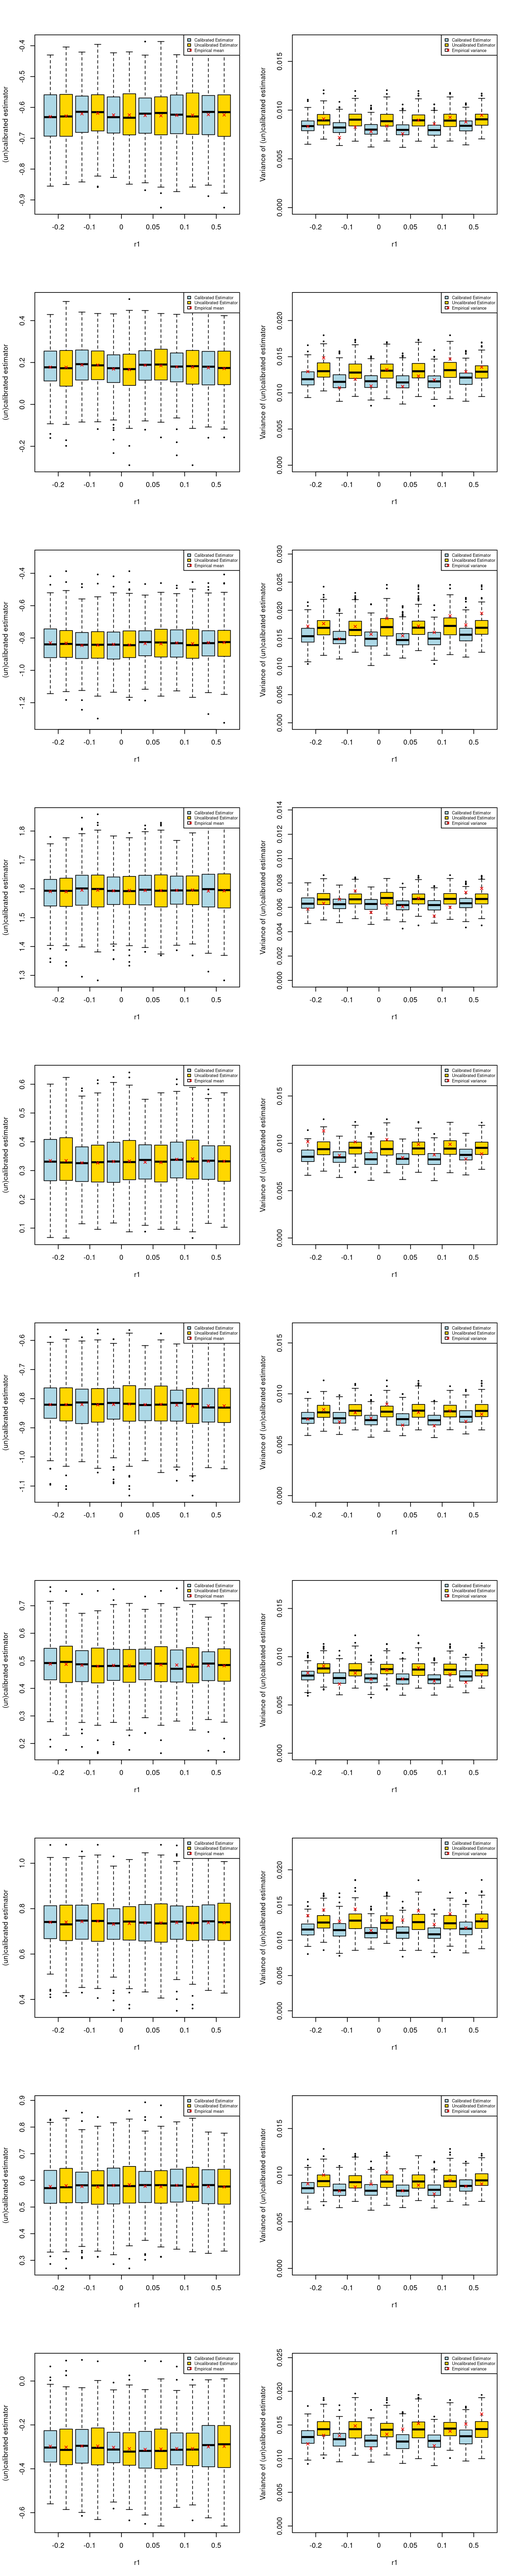
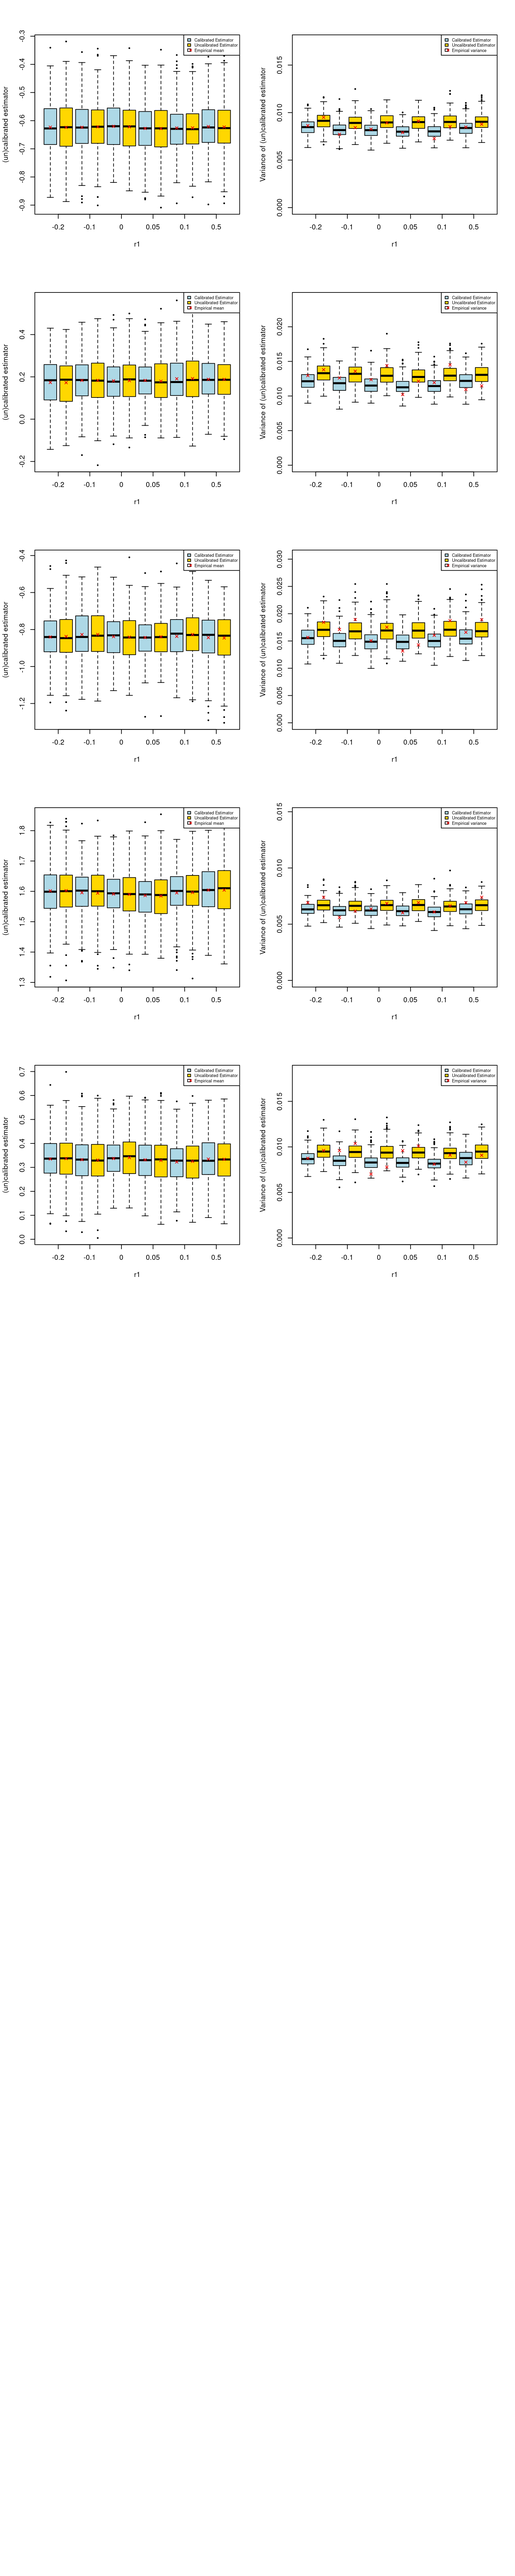
Build site.

diff --git a/docs/calibration_sib_randomX.html b/docs/calibration_sib_randomX.html
@@ -14,8 +14,8 @@
 
 <title>Calibration result on sibling data: random genotype</title>
 
-<script src="site_libs/header-attrs-2.9/header-attrs.js"></script>
-<script src="site_libs/jquery-1.11.3/jquery.min.js"></script>
+<script src="site_libs/header-attrs-2.14/header-attrs.js"></script>
+<script src="site_libs/jquery-3.6.0/jquery-3.6.0.min.js"></script>
 <meta name="viewport" content="width=device-width, initial-scale=1" />
 <link href="site_libs/bootstrap-3.3.5/css/cosmo.min.css" rel="stylesheet" />
 <script src="site_libs/bootstrap-3.3.5/js/bootstrap.min.js"></script>
@@ -39,7 +39,7 @@
 <link href="site_libs/font-awesome-5.1.0/css/all.css" rel="stylesheet" />
 <link href="site_libs/font-awesome-5.1.0/css/v4-shims.css" rel="stylesheet" />
 
-<link rel="icon" href="https://github.com/workflowr/workflowr-assets/raw/master/img/reproducible.png">
+<link rel="icon" href="https://github.com/workflowr/workflowr-assets/raw/main/img/reproducible.png">
 <!-- Add a small amount of space between sections. -->
 <style type="text/css">
 div.section {
@@ -76,6 +76,7 @@ if (window.hljs) {
 
 
 
+
 <style type = "text/css">
 .main-container {
   max-width: 940px;
@@ -96,6 +97,9 @@ button.code-folding-btn:focus {
 }
 summary {
   display: list-item;
+}
+details > summary > p:only-child {
+  display: inline;
 }
 pre code {
   padding: 0;
@@ -321,7 +325,7 @@ div.tocify {
 <div class="navbar navbar-default  navbar-fixed-top" role="navigation">
   <div class="container">
     <div class="navbar-header">
-      <button type="button" class="navbar-toggle collapsed" data-toggle="collapse" data-target="#navbar">
+      <button type="button" class="navbar-toggle collapsed" data-toggle="collapse" data-bs-toggle="collapse" data-target="#navbar" data-bs-target="#navbar">
         <span class="icon-bar"></span>
         <span class="icon-bar"></span>
         <span class="icon-bar"></span>
@@ -403,10 +407,10 @@ title="This is the local directory in which the code in this file was executed."
 </span>
 </p>
 <p>
-This reproducible <a href="http://rmarkdown.rstudio.com">R Markdown</a>
+This reproducible <a href="https://rmarkdown.rstudio.com">R Markdown</a>
 analysis was created with <a
-  href="https://github.com/jdblischak/workflowr">workflowr</a> (version
-1.6.2). The <em>Checks</em> tab describes the reproducibility checks
+  href="https://github.com/workflowr/workflowr">workflowr</a> (version
+1.7.0). The <em>Checks</em> tab describes the reproducibility checks
 that were applied when the results were created. The <em>Past
 versions</em> tab lists the development history.
 </p>
@@ -519,15 +523,15 @@ project makes it easier to run your code on other machines.</p>
 <div class="panel panel-default">
 <div class="panel-heading">
 <p class="panel-title">
-<a data-toggle="collapse" data-parent="#workflowr-checks" href="#strongRepositoryversionstrongahrefhttpsgithubcomyunqiyang0215simulationcalibratedmrtree380c82425c9a465de83752c72fd63a794957b584targetblank380c824a">
+<a data-toggle="collapse" data-parent="#workflowr-checks" href="#strongRepositoryversionstrongahrefhttpsgithubcomyunqiyang0215simulationcalibratedmrtree42d0387451823498a6d09ae0e4a4cfe3763259fftargetblank42d0387a">
 <span class="glyphicon glyphicon-ok text-success"
 aria-hidden="true"></span> <strong>Repository version:</strong>
-<a href="https://github.com/yunqiyang0215/simulation-calibrated-mr/tree/380c82425c9a465de83752c72fd63a794957b584" target="_blank">380c824</a>
+<a href="https://github.com/yunqiyang0215/simulation-calibrated-mr/tree/42d0387451823498a6d09ae0e4a4cfe3763259ff" target="_blank">42d0387</a>
 </a>
 </p>
 </div>
 <div
[2 lines of base64/hex data omitted]
 class="panel-collapse collapse">
 <div class="panel-body">
 <p>
@@ -537,7 +541,7 @@ reproducibility.
 </p>
 <p>
 The results in this page were generated with repository version
-<a href="https://github.com/yunqiyang0215/simulation-calibrated-mr/tree/380c82425c9a465de83752c72fd63a794957b584" target="_blank">380c824</a>.
+<a href="https://github.com/yunqiyang0215/simulation-calibrated-mr/tree/42d0387451823498a6d09ae0e4a4cfe3763259ff" target="_blank">42d0387</a>.
 See the <em>Past versions</em> tab to see a history of the changes made
 to the R Markdown and HTML files.
 </p>
@@ -552,6 +556,7 @@ were generated:
 </p>
 <pre><code>
 Ignored files:
+    Ignored:    .Rhistory
     Ignored:    .Rproj.user/
 
 </code></pre>
@@ -599,6 +604,40 @@ Message
 </tr>
 </thead>
 <tbody>
+<tr>
+<td>
+Rmd
+</td>
+<td>
+<a href="https://github.com/yunqiyang0215/simulation-calibrated-mr/blob/42d0387451823498a6d09ae0e4a4cfe3763259ff/analysis/calibration_sib_randomX.Rmd" target="_blank">42d0387</a>
+</td>
+<td>
+yunqi yang
+</td>
+<td>
+2024-02-25
+</td>
+<td>
+wflow_publish("analysis/calibration_sib_randomX.Rmd")
+</td>
+</tr>
+<tr>
+<td>
+html
+</td>
+<td>
+<a href="https://rawcdn.githack.com/yunqiyang0215/simulation-calibrated-mr/5d291dc002fdfac94d898ae0d724715dc7f2d4d1/docs/calibration_sib_randomX.html" target="_blank">5d291dc</a>
+</td>
+<td>
+yunqi yang
+</td>
+<td>
+2024-02-25
+</td>
+<td>
+Build site.
+</td>
+</tr>
 <tr>
 <td>
 Rmd
@@ -708,12 +747,13 @@ random in this case.</p>
 class="section level3">
 <h3>1. Compare calibrated estimator vs. raw estimator (Exposure
 trait)</h3>
+<div id="parameters-p-10-and-sig-1" class="section level4">
+<h4>Parameters: p = 10 and sig = 1</h4>
 <pre class="r"><code>par(mfrow = c(10,2))
 r1 = unique(res$sim_data.r1)
-p = 10
 
-for (i in 1:p){
-  snp_dat_list = lapply(1:length(r1), function(k) combine_single_snp_stat(which(res$sim_data.r1 == r1[k]), i, data.list = res$fit.sumstat, column_names = c(&quot;Y1.cali&quot;, &quot;Y1.raw&quot;)))
+for (i in 1:5){
+  snp_dat_list = lapply(1:length(r1), function(k) combine_single_snp_stat(which(res$sim_data.r1 == r1[k] &amp; res$sim_effect.p == 10 &amp; res$sim_data.sig == 1), i, data.list = res$fit.sumstat, column_names = c(&quot;Y1.cali&quot;, &quot;Y1.raw&quot;)))
 
   dat_estimator &lt;- do.call(cbind, snp_dat_list)
   colors &lt;- rep(c(&quot;lightblue&quot;, &quot;gold1&quot;), length.out = ncol(dat_estimator))
@@ -737,7 +777,7 @@ for (i in 1:p){
   
   ### Plot variance
   empirical_var = apply(dat_estimator, 2, var)
-  snp_dat_list = lapply(1:length(r1), function(k) combine_single_snp_stat(which(res$sim_data.r1 == r1[k]), i, data.list = res$fit.sumstat, column_names = c(&quot;Y1.cali.var&quot;, &quot;Y1.raw.var&quot;)))
+  snp_dat_list = lapply(1:length(r1), function(k) combine_single_snp_stat(which(res$sim_data.r1 == r1[k] &amp; res$sim_effect.p == 10 &amp; res$sim_data.sig == 1), i, data.list = res$fit.sumstat, column_names = c(&quot;Y1.cali.var&quot;, &quot;Y1.raw.var&quot;)))
   dat_estimator_var &lt;- do.call(cbind, snp_dat_list)
     
   colors &lt;- rep(c(&quot;lightblue&quot;, &quot;gold1&quot;), length.out = ncol(dat_estimator_var))
@@ -785,6 +825,17 @@ Date
 <tbody>
 <tr>
 <td>
+<a href="https://github.com/yunqiyang0215/simulation-calibrated-mr/blob/5d291dc002fdfac94d898ae0d724715dc7f2d4d1/docs/figure/calibration_sib_randomX.Rmd/unnamed-chunk-3-1.png" target="_blank">5d291dc</a>
+</td>
+<td>
+yunqi yang
+</td>
+<td>
+2024-02-25
+</td>
+</tr>
+<tr>
+<td>
 <a href="https://github.com/yunqiyang0215/simulation-calibrated-mr/blob/f35a1c6560821e8ce7cf471e58b3981c18031dd4/docs/figure/calibration_sib_randomX.Rmd/unnamed-chunk-3-1.png" target="_blank">f35a1c6</a>
 </td>
 <td>
@@ -798,6 +849,60 @@ yunqi yang
 </table>
 </div>
 </div>
+</div>
+<div id="parameters-p-10-and-sig-10" class="section level4">
+<h4>Parameters: p = 10 and sig = 10</h4>
+<pre class="r"><code>par(mfrow = c(10,2))
+r1 = unique(res$sim_data.r1)
+for (i in 1:5){
+  snp_dat_list = lapply(1:length(r1), function(k) combine_single_snp_stat(which(res$sim_data.r1 == r1[k] &amp; res$sim_effect.p == 10 &amp; res$sim_data.sig == 10), i, data.list = res$fit.sumstat, column_names = c(&quot;Y1.cali&quot;, &quot;Y1.raw&quot;)))
+
+  dat_estimator &lt;- do.call(cbind, snp_dat_list)
+  colors &lt;- rep(c(&quot;lightblue&quot;, &quot;gold1&quot;), length.out = ncol(dat_estimator))
+  boxplot(dat_estimator,
+          #main = paste0(&quot;Exposure trait, r1=&quot;, r1[k]),
+          xlab = &quot;r1&quot;,
+          ylab = &quot;(un)calibrated estimator&quot;,
+          col = colors,
+          outpch = 20, # This changes the outlier point type to solid circle
+          outcex = 0.5,
+          xaxt = &quot;n&quot;)
+  points(1:ncol(dat_estimator), colMeans(dat_estimator), pch = 4, cex = 0.8, col = &quot;red2&quot;)
+  legend(&quot;topright&quot;,
+       legend = c(&quot;Calibrated Estimator&quot;, &quot;Uncalibrated Estimator&quot;, &quot;Empirical mean&quot;),
+       fill = c(&quot;lightblue&quot;, &quot;gold1&quot;, NA),  
+       pch = c(NA, NA, 4),  
+       col = c(NA, NA, &quot;red2&quot;),  
+       cex = 0.6)  
+  axis(1, at=seq(1.5, by=2, length.out=length(r1)), labels=r1)
+
+  
+  ### Plot variance
+  empirical_var = apply(dat_estimator, 2, var)
+  snp_dat_list = lapply(1:length(r1), function(k) combine_single_snp_stat(which(res$sim_data.r1 == r1[k] &amp; res$sim_effect.p == 10 &amp; res$sim_data.sig == 10), i, data.list = res$fit.sumstat, column_names = c(&quot;Y1.cali.var&quot;, &quot;Y1.raw.var&quot;)))
+  dat_estimator_var &lt;- do.call(cbind, snp_dat_list)
+    
+  colors &lt;- rep(c(&quot;lightblue&quot;, &quot;gold1&quot;), length.out = ncol(dat_estimator_var))
+  boxplot(dat_estimator_var,
+
+          ylim = c(0, max(dat_estimator_var, empirical_var)+0.005),
+          xlab = &quot;r1&quot;,
+          ylab = &quot;Variance of (un)calibrated estimator&quot;,
+          col = colors,
+          outpch = 20, 
+          outcex = 0.5,
+          xaxt = &quot;n&quot;)
+  points(1:ncol(dat_estimator_var), empirical_var, pch = 4, cex = 0.8, col = &quot;red2&quot;)
+  legend(&quot;topright&quot;,
+       legend = c(&quot;Calibrated Estimator&quot;, &quot;Uncalibrated Estimator&quot;, &quot;Empirical variance&quot;),
+       fill = c(&quot;lightblue&quot;, &quot;gold1&quot;, NA),  
+       pch = c(NA, NA, 4),  
+       col = c(NA, NA, &quot;red2&quot;),  
+       cex = 0.6)  
+  r_values &lt;- c(-0.20, -0.10, 0.00, 0.05, 0.10, 0.50) 
+  axis(1, at=seq(1.5, by=2, length.out=length(r1)), labels=r1)
+}</code></pre>
+<p><img src="figure/calibration_sib_randomX.Rmd/unnamed-chunk-4-1.png" width="768" style="display: block; margin: auto;" /></p>
 <br>
 <p>
 <button type="button" class="btn btn-default btn-workflowr btn-workflowr-sessioninfo" data-toggle="collapse" data-target="#workflowr-sessioninfo" style="display: block;">
@@ -807,13 +912,12 @@ Session information
 </p>
 <div id="workflowr-sessioninfo" class="collapse">
 <pre class="r"><code>sessionInfo()</code></pre>
-<pre><code>R version 4.1.0 (2021-05-18)
+<pre><code>R version 4.2.0 (2022-04-22)
 Platform: x86_64-pc-linux-gnu (64-bit)
 Running under: CentOS Linux 7 (Core)
 
 Matrix products: default
-BLAS:   /software/R-4.1.0-no-openblas-el7-x86_64/lib64/R/lib/libRblas.so
-LAPACK: /software/R-4.1.0-no-openblas-el7-x86_64/lib64/R/lib/libRlapack.so
+BLAS/LAPACK: /software/openblas-0.3.13-el7-x86_64/lib/libopenblas_haswellp-r0.3.13.so
 
 locale:
  [1] LC_CTYPE=en_US.UTF-8 LC_NUMERIC=C         LC_TIME=C           
@@ -825,27 +929,29 @@ attached base packages:
 [1] stats     graphics  grDevices utils     datasets  methods   base     
 
 other attached packages:
-[1] workflowr_1.6.2
+[1] workflowr_1.7.0
 
 loaded via a namespace (and not attached):
- [1] Rcpp_1.0.6       highr_0.9        pillar_1.6.1     compiler_4.1.0  
- [5] bslib_0.4.2      later_1.2.0      jquerylib_0.1.4  git2r_0.28.0    
- [9] tools_4.1.0      digest_0.6.27    jsonlite_1.7.2   evaluate_0.14   
-[13] lifecycle_1.0.3  tibble_3.1.2     pkgconfig_2.0.3  rlang_1.1.1     
-[17] cli_3.6.1        rstudioapi_0.13  yaml_2.2.1       xfun_0.24       
-[21] fastmap_1.1.0    stringr_1.4.0    knitr_1.33       fs_1.5.0        
-[25] vctrs_0.3.8      sass_0.4.0       rprojroot_2.0.2  glue_1.4.2      
-[29] R6_2.5.0         fansi_0.5.0      rmarkdown_2.9    magrittr_2.0.1  
-[33] whisker_0.4      promises_1.2.0.1 ellipsis_0.3.2   htmltools_0.5.5 
-[37] httpuv_1.6.1     utf8_1.2.1       stringi_1.6.2    cachem_1.0.5    
-[41] crayon_1.4.1    </code></pre>
+ [1] Rcpp_1.0.8.3     highr_0.9        bslib_0.3.1      compiler_4.2.0  
+ [5] pillar_1.7.0     later_1.3.0      git2r_0.30.1     jquerylib_0.1.4 
+ [9] tools_4.2.0      getPass_0.2-2    digest_0.6.29    jsonlite_1.8.0  
+[13] evaluate_0.15    tibble_3.1.7     lifecycle_1.0.1  pkgconfig_2.0.3 
+[17] rlang_1.0.2      cli_3.3.0        rstudioapi_0.13  yaml_2.3.5      
+[21] xfun_0.30        fastmap_1.1.0    httr_1.4.3       stringr_1.4.0   
+[25] knitr_1.39       sass_0.4.1       fs_1.5.2         vctrs_0.4.1     
+[29] rprojroot_2.0.3  glue_1.6.2       R6_2.5.1         processx_3.8.0  
+[33] fansi_1.0.3      rmarkdown_2.14   callr_3.7.3      magrittr_2.0.3  
+[37] whisker_0.4      ps_1.7.0         promises_1.2.0.1 htmltools_0.5.2 
+[41] ellipsis_0.3.2   httpuv_1.6.5     utf8_1.2.2       stringi_1.7.6   
+[45] crayon_1.5.1    </code></pre>
+</div>
 </div>
 </div>
 
 
 <!-- Adjust MathJax settings so that all math formulae are shown using
 TeX fonts only; see
-http://docs.mathjax.org/en/latest/configuration.html.  This will make
+https://docs.mathjax.org/en/latest/web/configuration.html. This will make
 the presentation more consistent at the cost of the webpage sometimes
 taking slightly longer to load. Note that this only works because the
 footer is added to webpages before the MathJax javascript. -->

diff --git a/docs/site_libs/navigation-1.1/codefolding.js b/docs/site_libs/navigation-1.1/codefolding.js
@@ -19,6 +19,8 @@ window.initializeCodeFolding = function(show) {
   // select all R code blocks
   var rCodeBlocks = $('pre.r, pre.python, pre.bash, pre.sql, pre.cpp, pre.stan, pre.julia, pre.foldable');
   rCodeBlocks.each(function() {
+    // skip if the block has fold-none class
+    if ($(this).hasClass('fold-none')) return;
 
     // create a collapsable div to wrap the code in
     var div = $('<div class="collapse r-code-collapse"></div>');
@@ -34,7 +36,9 @@ window.initializeCodeFolding = function(show) {
     showCodeButton.append(showCodeText);
     showCodeButton
         .attr('data-toggle', 'collapse')
+        .attr('data-bs-toggle', 'collapse') // BS5
         .attr('data-target', '#' + id)
+        .attr('data-bs-target', '#' + id)   // BS5
         .attr('aria-expanded', showThis)
         .attr('aria-controls', id);
 
